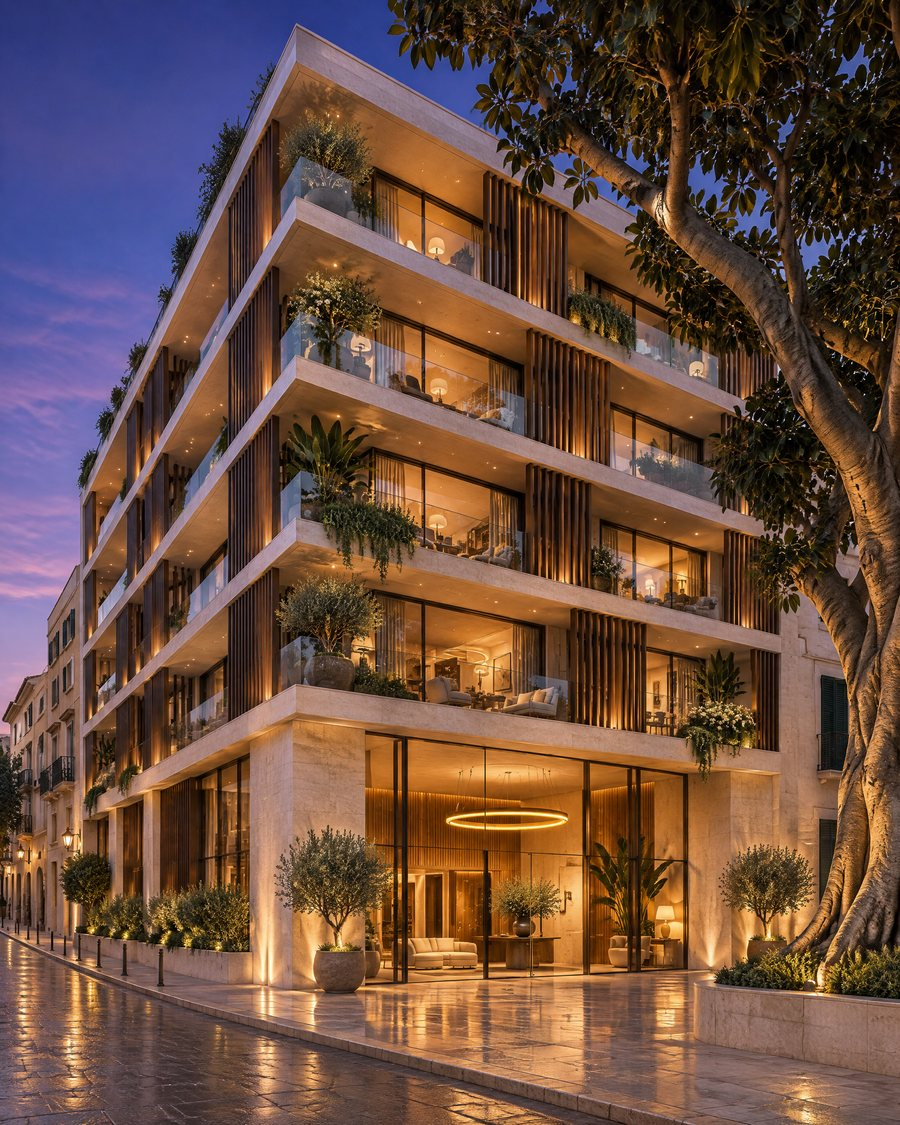
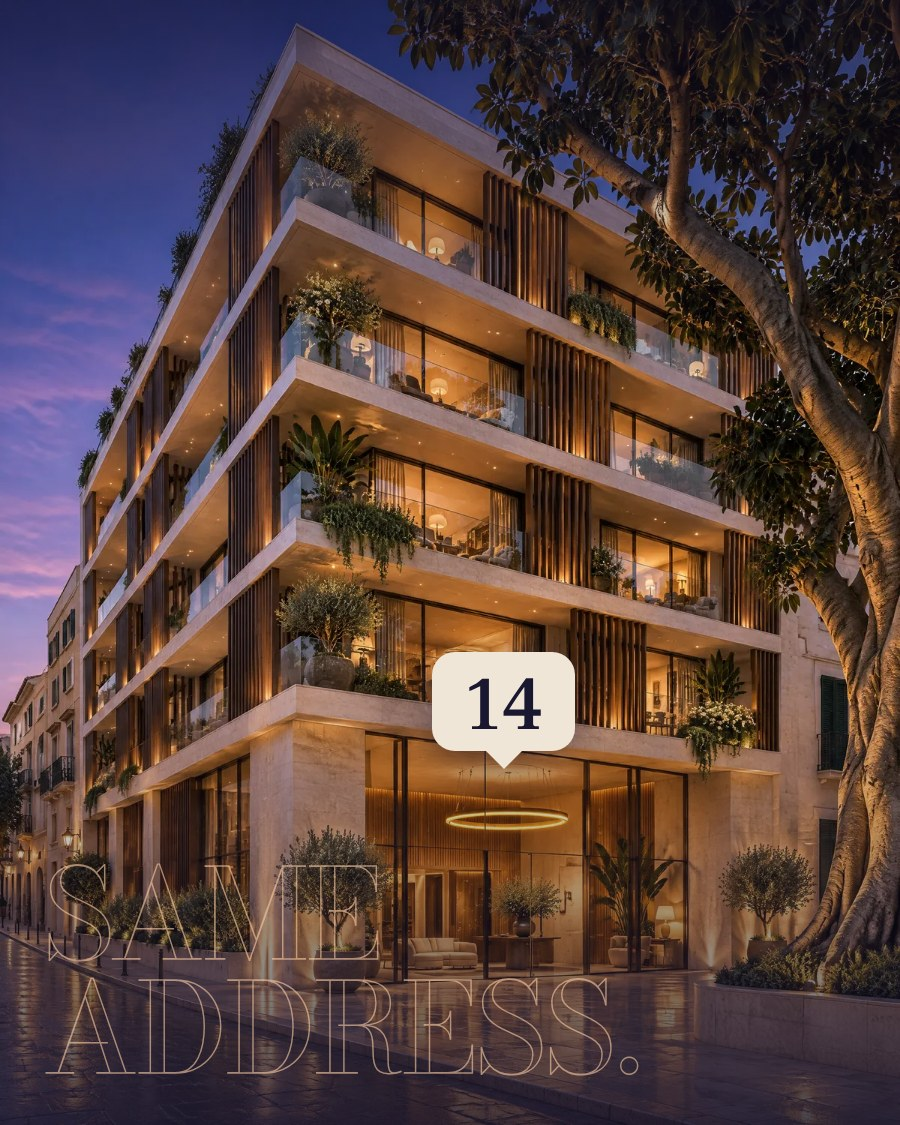
RUE°: gallery card and OG image carry the house-number plate and the English line
Claude-Session: https://claude.ai/code/session_01Uv8GejvbYdwpga4uqX5j3j

diff --git a/rue/index.html b/rue/index.html
@@ -13,12 +13,12 @@
 <meta property="og:image" content="https://hagitantebi.co.il/rue-og.jpg">
 <meta property="og:image:width" content="1200">
 <meta property="og:image:height" content="630">
-<meta property="og:image:alt" content="RUE° Urban Renewal Estates — בניין מגורים חדש בשעת דמדומים, חלונות מוארים ושמיים כחולים־סגולים">
+<meta property="og:image:alt" content="RUE° — בניין מגורים חדש בשעת דמדומים עם שלט מספר הבית 14 מעל הכניסה, והכותרת: אותה כתובת. סטנדרט אחר.">
 <meta property="og:url" content="https://hagitantebi.co.il/rue/">
 <meta property="og:locale" content="he_IL">
 <meta name="twitter:card" content="summary_large_image">
 <meta name="twitter:image" content="https://hagitantebi.co.il/rue-og.jpg">
-<meta name="twitter:image:alt" content="RUE° Urban Renewal Estates — בניין מגורים חדש בשעת דמדומים, חלונות מוארים ושמיים כחולים־סגולים">
+<meta name="twitter:image:alt" content="RUE° — בניין מגורים חדש בשעת דמדומים עם שלט מספר הבית 14 מעל הכניסה, והכותרת: אותה כתובת. סטנדרט אחר.">
 <!-- Meta Pixel Code -->
 <script>
 !function(f,b,e,v,n,t,s)

diff --git a/brand-worlds/index.html b/brand-worlds/index.html
@@ -2460,7 +2460,7 @@ document.addEventListener('DOMContentLoaded', function () {
         <div class="world-card__media">
           <div class="world-card__nº">No. 07</div>
           <div class="world-card__cta-corner">Concept</div>
-          <img width="900" height="1125" src="card-rue.jpg" alt="RUE° — בניין מגורים חדש בן שש קומות בשעת דמדומים, במבט מהמדרכה: לוחות אבן בהירים, פסי עץ כהים וחלונות מוארים" loading="lazy" />
+          <img width="900" height="1125" src="card-rue.jpg" alt="RUE° — בניין מגורים חדש בן שש קומות בשעת דמדומים, במבט מהמדרכה, עם שלט מספר הבית 14 מעל הכניסה והכיתוב Same address." loading="lazy" />
         </div>
         <div class="world-card__copy">
           <div class="world-card__issue">Concept · Live site</div>
